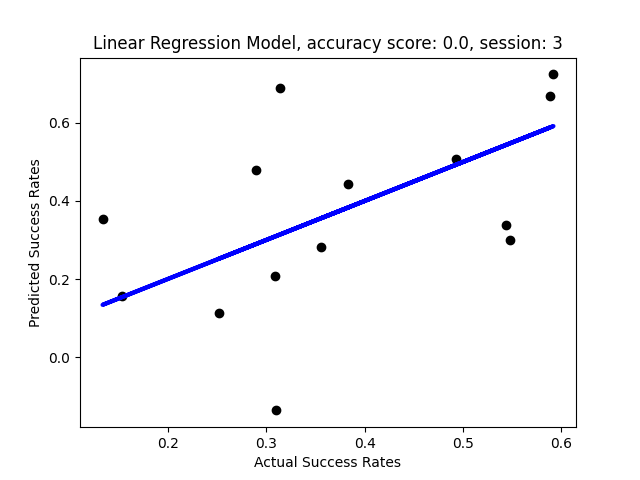
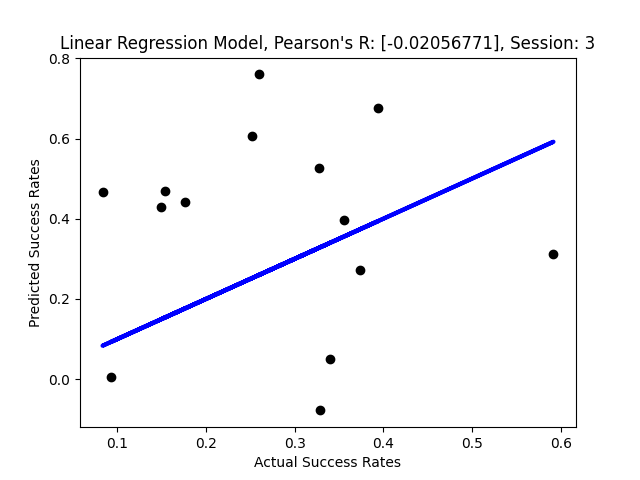
last final update from 29.8

diff --git a/mentalStrategiesProject.py b/mentalStrategiesProject.py
@@ -258,6 +258,22 @@ def runApp():
 
     ###-------03---PROCESSING BETWEEN SUBJECT: PREDICTION MODELS---------###
 
+    ###----------------------RANDOM FOREST MODEL------------------------###
+        # def random_forest(model, x_train, y_train, x_test):
+        #     feature_names = [f"feature {i}" for i in range(x_train.shape[1])]
+        #     model.fit(x_train, y_train)
+        #     importances = model.feature_importances_
+        #     std = np.std([tree.feature_importances_ for tree in model.estimators_], axis=0)
+        #     print(std)
+        #     forest_importances = pd.Series(importances)
+        #     fig, ax = plt.subplots()
+        #     forest_importances.plot.bar(yerr=std, ax=ax)
+        #     ax.set_title("Feature importances using MDI")
+        #     ax.set_ylabel("Mean decrease in impurity")
+        #     # fig.tight_layout()
+        #     plt.show()
+        #     predictions = model.predict(x_test)
+        #     return predictions
     ###----------------------REGRESSION MODELS------------------------###
 
     def regression(model, x_train, y_train, x_test):
@@ -270,19 +286,6 @@ def runApp():
     def clustering(model, x):
         predictions = model.fit_predict(x)
         return predictions
-
-    # ###---------------------ACCURACY FUNCTION----------------------------###
-
-    # def r2_accuracy_score(y_test, predictions):
-    #     # Calculate R-squared
-    #     from scipy.stats import pearsonr
-    #     print(y_test)
-    #     print(predictions)
-    #     score = pearsonr(y_test, predictions)
-    #     # Scale R-squared to the range [0, 1]
-    #     #scaler = MinMaxScaler(feature_range=(0, 1))
-    #     #score = scaler.fit_transform([[score]])[0][0]
-    #     return score
 
     ###----------------------PLOT RESULTS------------------------###
     def plot_kmeans(predictions, score, y_test):
@@ -342,32 +345,21 @@ def runApp():
         success_avg = 0
         last_minus_first_session_success_rates = np.array(last_minus_first_session_success_rates).reshape(-1, 1)
         for i in range(5):
-            logistic_X_train, logistic_X_test, logistic_y_train, logistic_y_test = \
+            forest_x_train, forest_x_test, forest_y_train, forest_y_test = \
                 train_test_split(last_minus_first_session_success_rates, kmeans_predictions, test_size=0.3)
-            logistic_predictions = regression(model, logistic_X_train, logistic_y_train, logistic_X_test)           
-            # forest_importances = pd.Series(importances, index=feature_names)
-            # fig, ax = plt.subplots()
-            # forest_importances.plot.bar(yerr=std, ax=ax)
-            # ax.set_title("Feature importances using MDI")
-            # ax.set_ylabel("Mean decrease in impurity")
-            # fig.tight_layout()
-            logistic_y_test = np.array(logistic_y_test).reshape(-1, 1)
-            logistic_predictions = np.array(logistic_predictions).reshape(-1, 1)
-            # model_score = model.score(logistic_y_test, logistic_predictions)
-            model_score = accuracy_score(logistic_y_test, logistic_predictions)
-            print(f"i:{i}")
-            # print(f"x train:{logistic_X_train}\n y train:{logistic_y_train}\n")
-            print(f"x test:{logistic_X_test}\n y test:{logistic_y_test}\n predictions:{logistic_predictions}")
-            print(f"model score: {model_score}")
+            # print(f'forest x train: {forest_x_train}\n forest y tarin: {forest_y_train}')
+            forest_predictions = regression(model, forest_x_train, forest_y_train, forest_x_test) 
+            forest_y_test = np.array(forest_y_test).reshape(-1, 1)
+            forest_predictions = np.array(forest_predictions).reshape(-1, 1)
+            model_score = accuracy_score(forest_y_test, forest_predictions)
             if model_score > max_score:
                 max_score = model_score
-                best_predictions = logistic_predictions
-                best_success = logistic_X_test
+                best_predictions = forest_predictions
+                best_success = forest_y_test
             score += model_score
-            predictions_avg += logistic_predictions
-            success_avg += logistic_X_test
+            predictions_avg += forest_predictions
+            success_avg += forest_y_test
         score = score/5
-        print(score)
         predictions_avg = predictions_avg/5
         success_avg = success_avg/5
         last_minus_first_session_success_rates = np.array(last_minus_first_session_success_rates).reshape(-1, 1)
@@ -406,15 +398,37 @@ def runApp():
             mean_pearson_r /= 5
             plot_linear(unprocessed_y_test, unprocessed_predictions, mean_pearson_r, session_num)
 
-###---------------------- EXPLORATORY PART -----------------###
+###---------------------- FEATURE IMPORTANCE -----------------###
 
     
-    kmeans_successful = [processed_subjects[i] for i in range(len(processed_subjects)) if kmeans_predictions[subject]]
-    kmeans_unsuccessful = [processed_subjects[i] for i in range(len(processed_subjects)) if not kmeans_predictions[subject]]
-    kmeans_successful.to_csv(kmeans_successful_file_path, index=False,)
-    kmeans_unsuccessful.to_csv(kmeans_unsuccessful_file_path, index=False,)
-    print(f"successfule mean vector: {meanVectorForEachSession(kmeans_successful)}")
-    print(f"unsuccessfule mean vector: {meanVectorForEachSession(kmeans_unsuccessful)}")
+    # kmeans_successful = [processed_subjects[i] for i in range(len(processed_subjects)) if kmeans_predictions[subject]]
+    # kmeans_unsuccessful = [processed_subjects[i] for i in range(len(processed_subjects)) if not kmeans_predictions[subject]]
+    # kmeans_successful.to_csv(kmeans_successful_file_path, index=False,)
+    # kmeans_unsuccessful.to_csv(kmeans_unsuccessful_file_path, index=False,)
+    # print(f"successfule mean vector: {meanVectorForEachSession(kmeans_successful)}")
+    # print(f"unsuccessfule mean vector: {meanVectorForEachSession(kmeans_unsuccessful)}")
+    features_mean_differences = []
+    features_total_variance = []
+    processed_subjects = np.array(processed_subjects)
+    for feature in range(processed_subjects.shape[1]):
+        mean1 = processed_subjects[kmeans.labels_==0][:,feature].mean()
+        mean2 = processed_subjects[kmeans.labels_==1][:,feature].mean()
+        
+        var1 = processed_subjects[kmeans.labels_==0][:,feature].var()
+        var2 = processed_subjects[kmeans.labels_==1][:,feature].var()
+    
+        features_mean_differences.append(round(abs(mean1-mean2),3))
+        features_total_variance.append(round((var1+var2),3))
+
+    barWidth = 0.25
+    br1 = np.arange(len(features_mean_differences))
+    br2 = [x + barWidth for x in br1]
+    plt.bar(br1, features_mean_differences, color='red', width=barWidth, label='Mean Difference')
+    plt.bar(br2, features_total_variance, color='blue', width=0.25, label='Total Variance')
+    plt.xlabel('Features')
+    plt.title('Feature Importance')
+    plt.legend()
+    plt.show()
 
 
 
